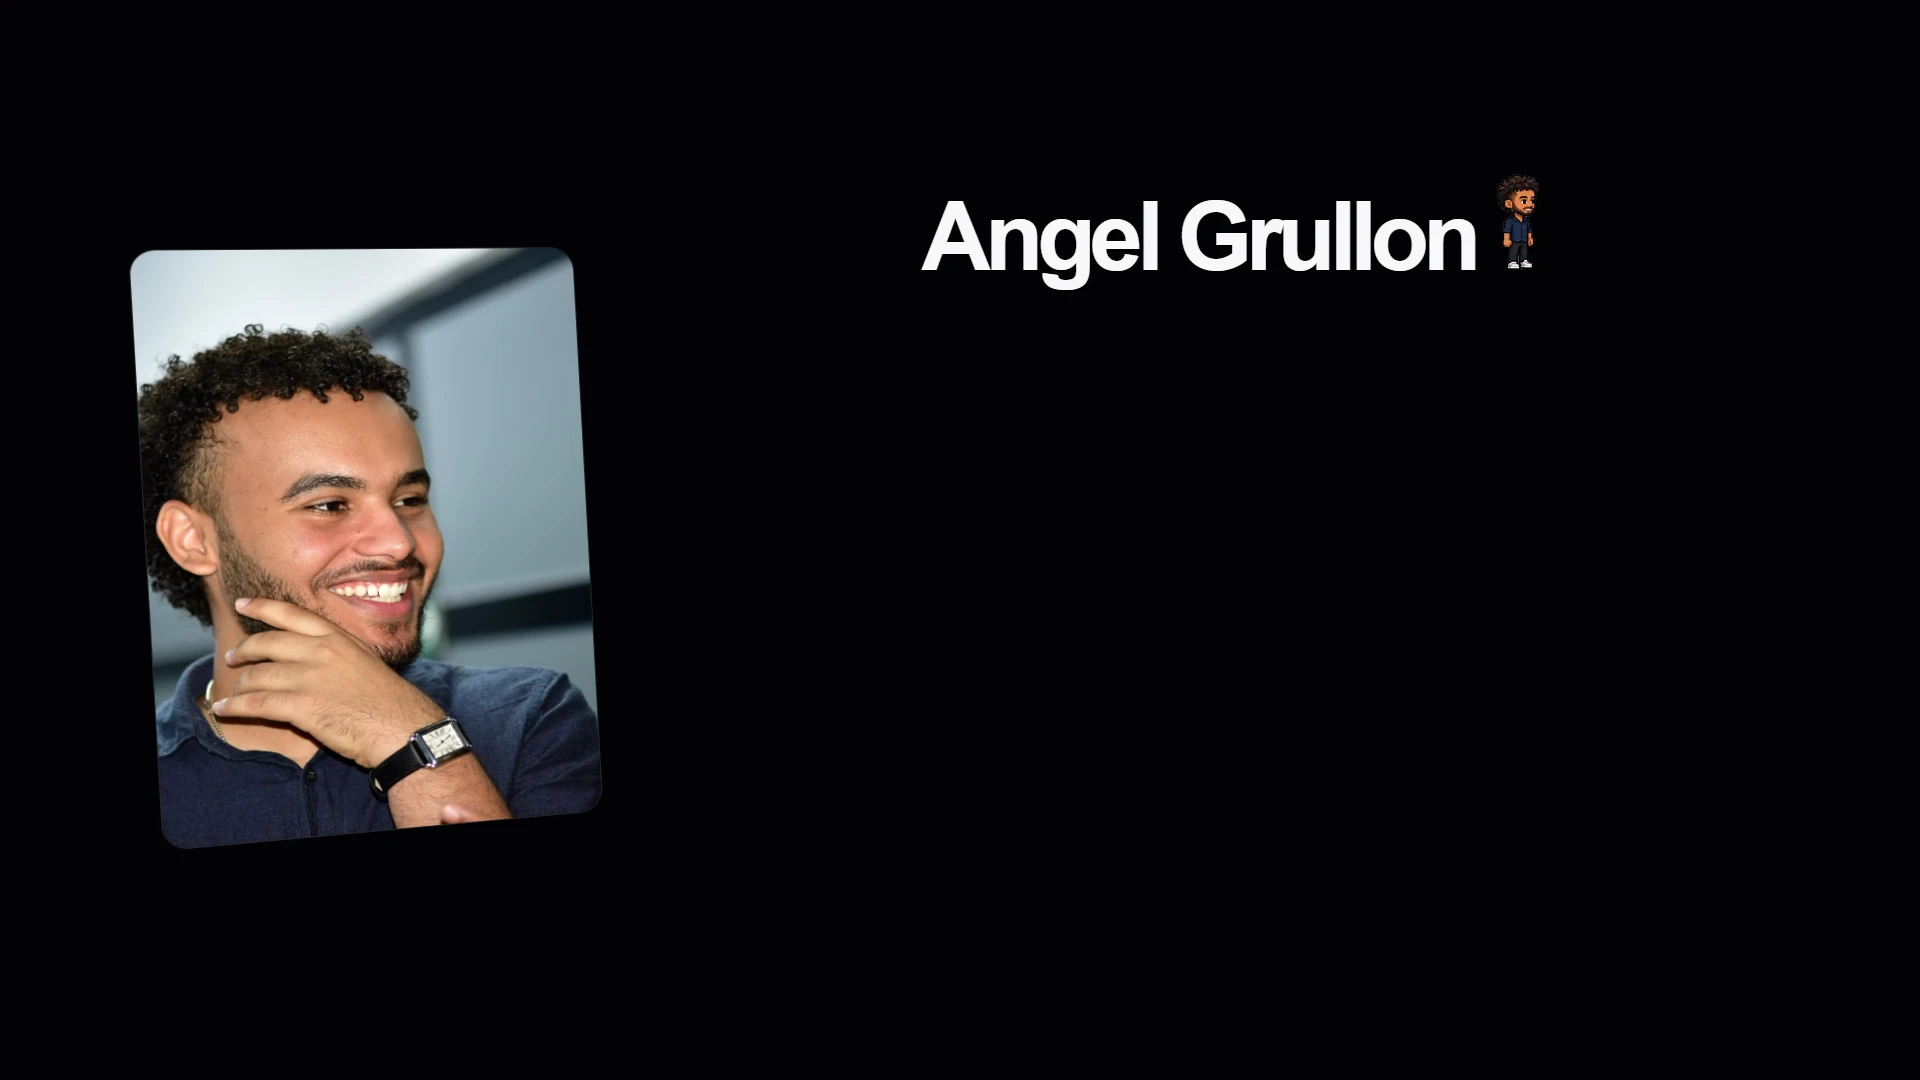
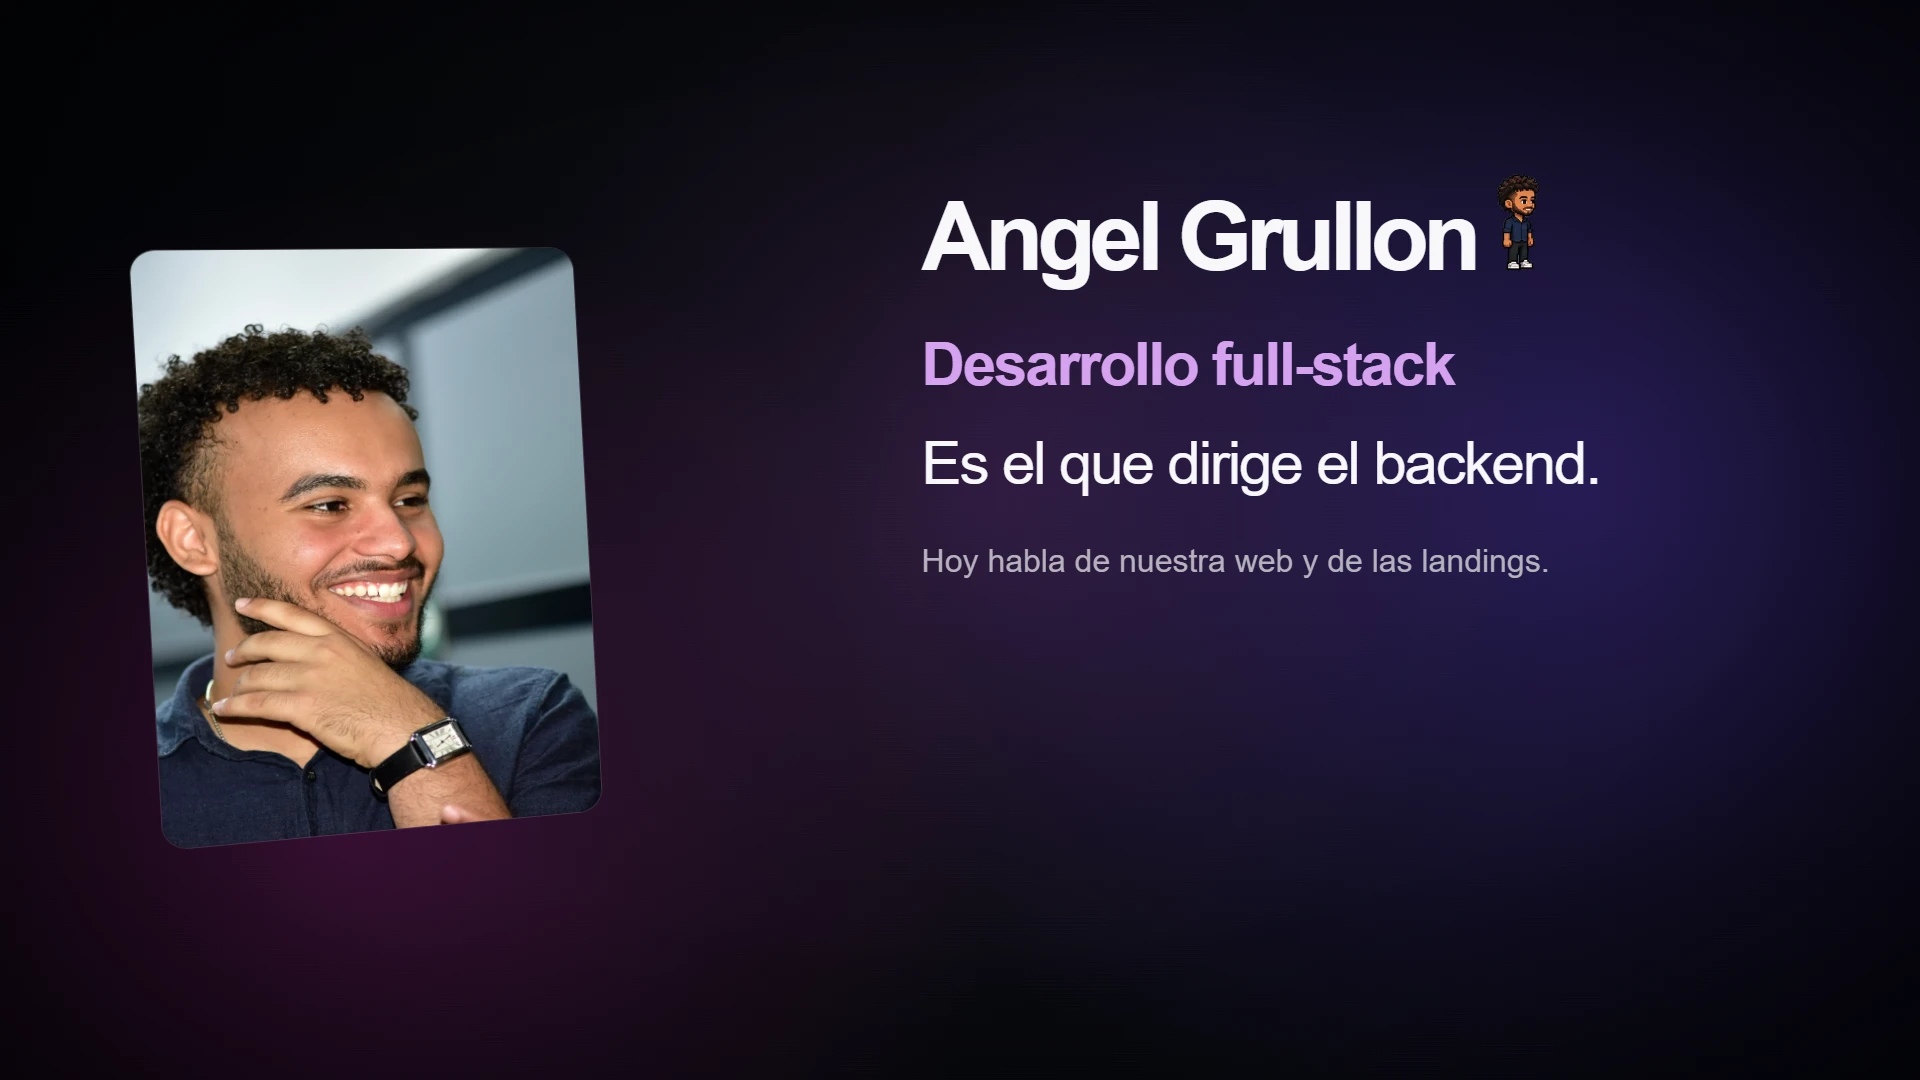
Las notas ya no dicen que Angel hizo los muñequitos y el agujero negro; su póster, con el cargo y quién es

diff --git a/src/diapositivas/vitrina/zhonyas-web.tsx b/src/diapositivas/vitrina/zhonyas-web.tsx
@@ -3,8 +3,9 @@
  * columna de 700) en una ventana grande que se recorre sola de verdad: un video de la página en vivo
  * bajando de principio a fin (el logo, la cinta, «Nosotros», el equipo,
  * Servicios, Proyectos y la galaxia de Contacto), grabado con
- * scripts/vitrina-grabar-web.mjs el 13-nov. La presenta Angel, que hizo los
- * personajes y el agujero negro.
+ * scripts/vitrina-grabar-web.mjs el 13-nov. La presenta Angel. Sus notas no
+ * dicen quién hizo los personajes ni el agujero negro (José, 14-nov: «quita lo
+ * de que él fue quien hizo los 3D»).
  */
 import { Producto, Ventana } from '../../marca/vitrina';
 import { definirDiapositiva, type PropsDiapositiva } from '../../motor/tipos';
@@ -37,12 +38,12 @@ export default definirDiapositiva({
   notas: [
     {
       decir:
-        'Esta es nuestra web, zhonyas.com. Yo armé los muñequitos de cada uno y el agujero negro que se abre al final, en Contacto. Todo lo que ven se mueve en el navegador, sin videos.',
+        'Esta es nuestra web, zhonyas.com. Cada uno del equipo tiene su muñequito, y al final, en Contacto, se abre un agujero negro. Todo lo que ven se mueve en el navegador, sin videos.',
       claves: 'zhonyas.com · los muñequitos · el agujero negro al final',
       aparte: 'El video dura 51 s y vuelve a empezar: el agujero negro y la galaxia salen al final.',
     },
   ],
-  fuentes: ['Lema: el pie de zhonyas.com («De una idea a algo extraordinario.»); Angel hizo los personajes y el agujero negro (08 §4).'],
+  fuentes: ['Lema: el pie de zhonyas.com («De una idea a algo extraordinario.»).'],
   medios: [VIDEO, POSTER],
   Componente: ZhonyasWeb,
 });

diff --git a/src/diapositivas/vitrina/equipo.tsx b/src/diapositivas/vitrina/equipo.tsx
@@ -61,7 +61,7 @@ export default definirDiapositiva({
   notas: [
     {
       decir:
-        'Somos Zhonyas, un estudio de software y diseño de Santiago. Somos seis; hoy venimos tres: Gregory, Angel y yo. Cada uno tiene su muñequito: Angel los hizo para la web.',
+        'Somos Zhonyas, un estudio de software y diseño de Santiago. Somos seis; hoy venimos tres: Gregory, Angel y yo. Cada uno tiene su muñequito, el mismo de la web.',
       claves: 'estudio de Santiago · somos seis · hoy venimos tres · los muñequitos',
     },
   ],

diff --git a/docs/MEDIOS.md b/docs/MEDIOS.md
@@ -115,7 +115,7 @@ Z-10 ya está portado (`src/marca/agujero/`) y la 10 entra por él: lo que falta
 | `public/medios/agujero/respaldo.mp4` (o `respaldo.webm`) | MP4 H.264 (o WebM VP9) de 1920 × 1080 a 60 fps, sin sonido, unos 5 s: el agujero de zhonyas.com abriéndose, grabado en la laptop del día | 10, tecla V |
 | `public/medios/agujero/respaldo-poster.webp` | WebP de 1920 × 1080: el primer cuadro del video | 10 |
 
-**Ya está (no tocar):** `public/medios/posters/relevo-angel.webp`, el póster de la 09 (el estado final del paso 1, sacado igual el 13-nov), y `public/medios/posters/veinticinco-dias.webp`, el póster de la 10, para el presentador y las miniaturas (C-02; M-11; GUION 10, «Si falla», 4: «la 09 y la 10 se ven como póster»). Es el estado final de la 10 a 1920 × 1080, sacado con `?revision=1` y pasado a WebP con el Chrome del equipo (calidad 0,9). Si cambia lo que se ve en la 10, se vuelve a sacar igual.
+**Ya está (no tocar):** `public/medios/posters/relevo-angel.webp`, el póster de la 09 (su estado final, con el cargo y «Es el que dirige el backend.»; vuelto a sacar el 14-nov, rama diseno-wow), y `public/medios/posters/veinticinco-dias.webp`, el póster de la 10, para el presentador y las miniaturas (C-02; M-11; GUION 10, «Si falla», 4: «la 09 y la 10 se ven como póster»). Es el estado final de la 10 a 1920 × 1080, sacado con `?revision=1` y pasado a WebP con el Chrome del equipo (calidad 0,9). Si cambia lo que se ve en la 10, se vuelve a sacar igual.
 
 **10 · veinticinco-dias.** Hoy la V no hace nada en la 10: si en vivo no se vio el agujero, Angel sigue con la cifra (el corte seco del «si no llega»), y la nota del «Si falla» lo dice. Al llegar el video **con su póster**:
 - V pone el video a pantalla completa, encima de la cifra, y otra V lo quita. Funciona desde la sala y desde el presentador (las dos ventanas lo siguen), solo mientras la 10 está en pantalla;
